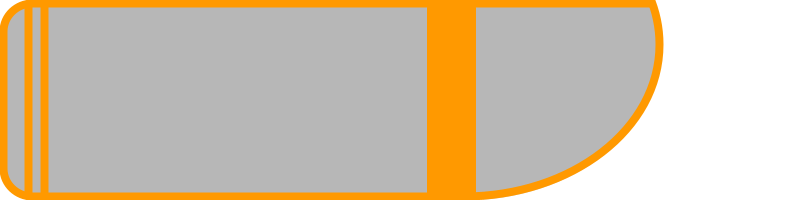
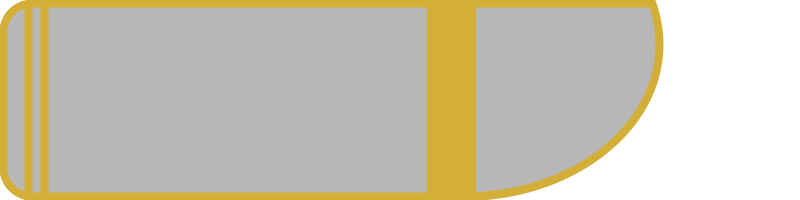
clan location 5 + swivel fix

Changed region(s): [[0.0, 0.0, 0.8438, 1.0]]

diff --git a/lib/misc/canvas.js b/lib/misc/canvas.js
@@ -134,7 +134,7 @@ module.exports.createClanBoatCanvas = async function(clan, status, clanAvatarID)
     // draw avatar
     if (clanAvatarID !== null) {
         const avatarImg = IMAGES.cosmetics.clan_avatar[clanAvatarID];
-        ctx.drawImage(avatarImg, 2*S, 1.3*S, 0.4*S, 0.4*S);
+        ctx.drawImage(avatarImg, 1.4*S, 1.3*S, 0.4*S, 0.4*S);
     }
 
     return canvas.toBuffer();

diff --git a/lib/logic/color.js b/lib/logic/color.js
@@ -7,7 +7,7 @@ module.exports.STATIC = {
 
     ],
     clanLocation: [
-        0x86bfde, 0x276296, 0xcbceac, 0x0fbbcf
+        0x86bfde, 0x276296, 0xcbceac, 0x0fbbcf, 0x5494cf
     ],
     coin: 0xffd700,
     shop: 0x5cd411,
